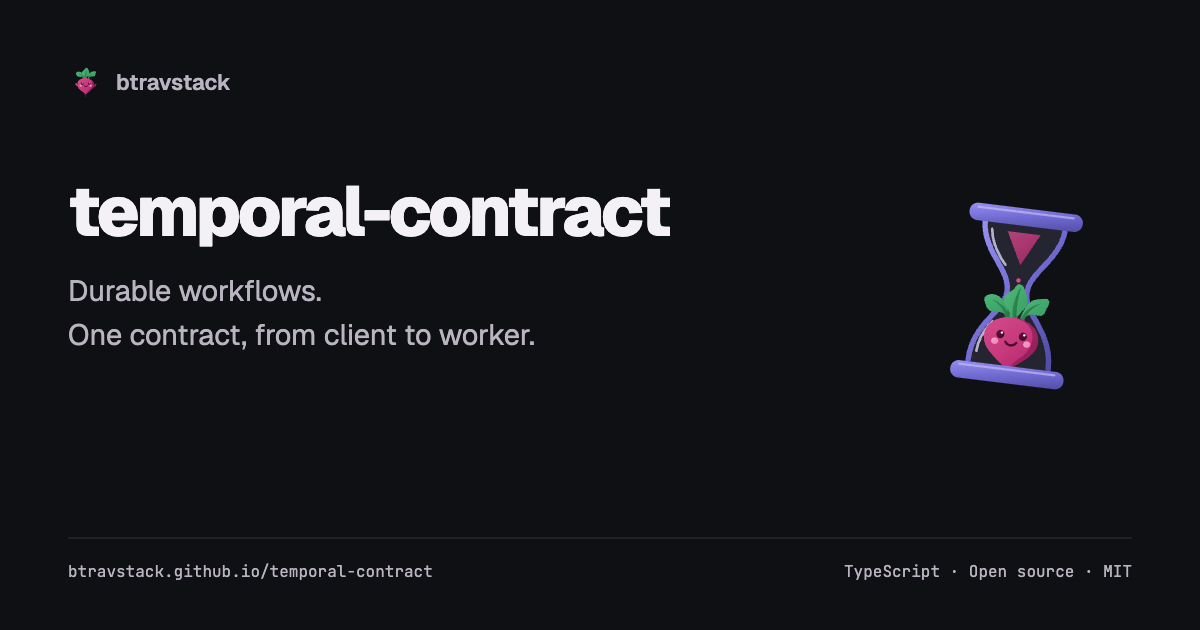
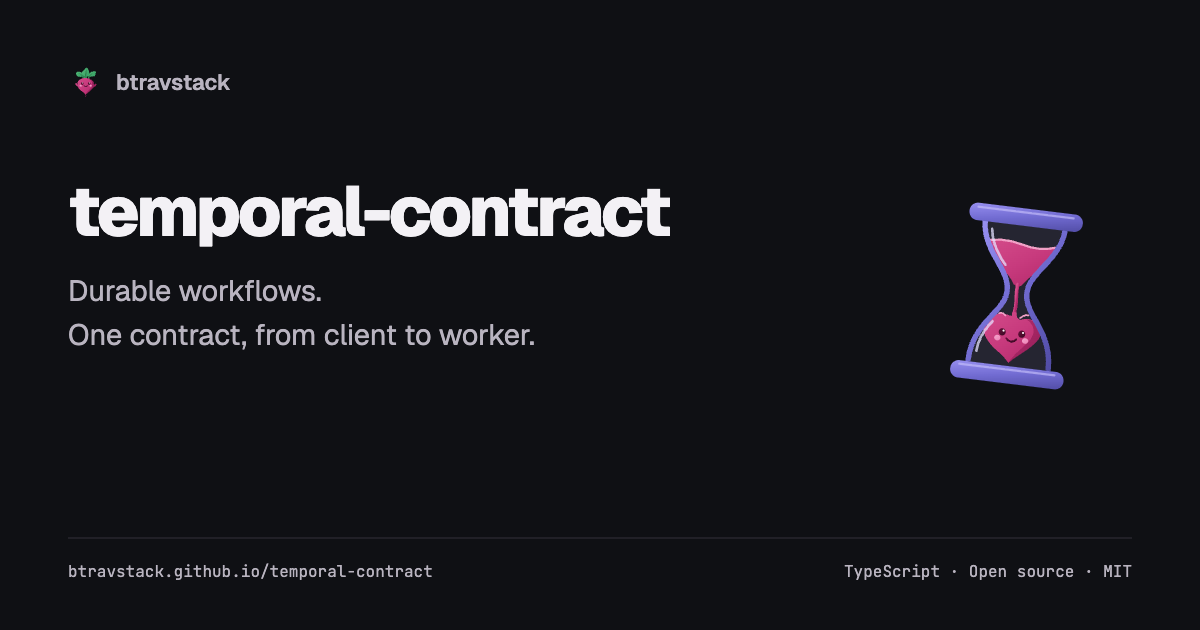
docs: refine temporal hourglass mascot

Changed region(s): [[0.8017, 0.3619, 0.8942, 0.6032]]

diff --git a/README.md b/README.md
@@ -3,7 +3,7 @@
 <picture>
   <source media="(prefers-color-scheme: dark)" srcset="docs/public/logo-dark.svg" />
   <source media="(prefers-color-scheme: light)" srcset="docs/public/logo-light.svg" />
-  <img src="docs/public/logo.svg" alt="temporal-contract mascot: a pink beet inside an hourglass" width="128" height="128" />
+  <img src="docs/public/logo.svg" alt="temporal-contract mascot: a leafless pink beet forming from liquid inside an hourglass" width="128" height="128" />
 </picture>
 
 # temporal-contract

diff --git a/docs/branding/README.md b/docs/branding/README.md
@@ -1,7 +1,7 @@
 # temporal-contract branding
 
 The illustrated mascot preserves the btravstack pink beet and its original
-project motif: a pink beet inside an hourglass. The canonical
+project motif: a leafless pink beet forming from liquid inside an hourglass. The canonical
 source is [the website brand generator](https://github.com/btravstack/btravstack.github.io/blob/main/scripts/generate-brand.mjs).
 
 To refresh them, run the generator in that repository and copy the generated

diff --git a/docs/index.md b/docs/index.md
@@ -10,7 +10,7 @@ hero:
   image:
     light: /logo-light.svg
     dark: /logo-dark.svg
-    alt: "temporal-contract mascot: a pink beet inside an hourglass"
+    alt: "temporal-contract mascot: a leafless pink beet forming from liquid inside an hourglass"
   actions:
     - theme: brand
       text: Your first workflow
